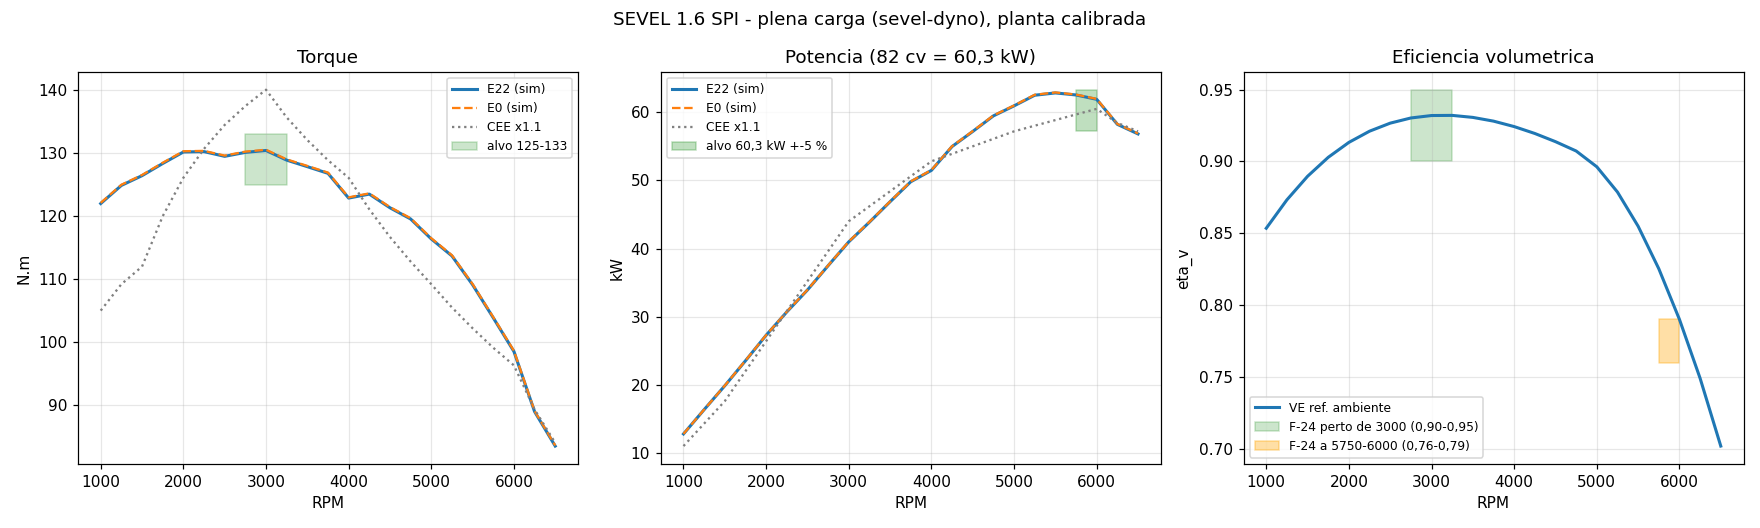
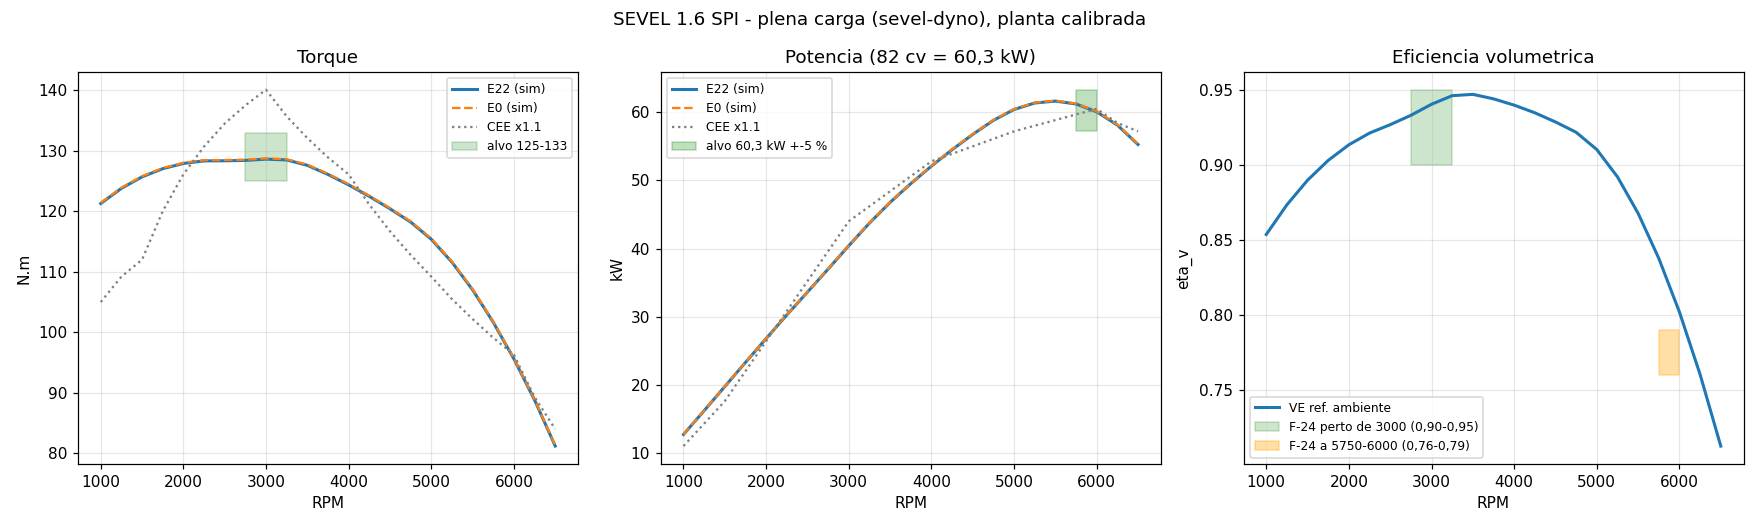
fix(dyno): refit VE high-speed correction on the exact integration
Written with LLM assistance (Claude). The VE is unknown, so this is a fit, not a validation.
Refitting every VE parameter flipped 2-3 chaotic ROM tests each time (quantised rpm, filters),
even with a curve within 1e-4 of the old one; so the base curve is kept bit-identical and a single
parameter hs_gain (smoothstep from 2500 to 3500 rpm) is fitted: hs_gain = 0.0194. Corrected dyno
(E22, leak 9): 128.6 N.m @3000 (-3.3 % vs 133), 60.1 kW @6000, peak 61.6 kW @5500; shape error 8.2 %.
fit_dyno_ve.py writes docs/dyno/fase2/fit_result.json (before/after, cost, per-point deviation);
tools/dyno_acceptance.py regenerates the CSVs, plot and manifest. ctest 510/510.

diff --git a/tools/fit_dyno_ve.py b/tools/fit_dyno_ve.py
@@ -1,5 +1,5 @@
 #!/usr/bin/env python3
-"""Fit the F-22 volumetric-efficiency curve parameters so the sevel-dyno WOT
+"""Fit the high-speed VE correction (hs_gain, base curve fixed) so the sevel-dyno WOT
 sweep meets the goal targets (133 N.m @3000, 82 cv @5750-6000, CEE x1.1 shape).
 Calibration helper, run inside the NativeLab. LLM-written (Claude)."""
 import csv, io, subprocess, sys
@@ -7,10 +7,16 @@ import numpy as np
 from scipy.optimize import minimize
 
 dyno = sys.argv[1]
-extra = sys.argv[2:]
-names = ["eta_max", "cb", "nb", "z0", "kz"]
-x0 = np.array([1.0, 0.30, 1800.0, 0.40, 9.0])
-lo = np.array([0.8, 0.0, 500.0, 0.2, 1.0]); hi = np.array([1.6, 0.9, 9000.0, 0.7, 60.0])
+rest = sys.argv[2:]
+out_dir = None
+if "--out" in rest:  # --out DIR writes fit_result.json (before/after, cost, per-point deviation)
+    i = rest.index("--out")
+    out_dir = rest[i + 1]
+    rest = rest[:i] + rest[i + 2:]
+extra = rest
+names = ["hs_gain"]  # single-parameter high-speed correction (base curve held fixed)
+x0 = np.array([0.0])  # defaults before the refit
+lo = np.array([-0.2]); hi = np.array([0.3])
 TARGET = {1500: 115, 2000: 126, 2500: 134, 3000: 133, 3500: 132, 4000: 126,
           4500: 117, 5000: 109, 5500: 102, 6000: 96.3, 6500: 84}
 W = {3000: 4.0, 6000: 4.0, 5500: 2.0}
@@ -30,17 +36,28 @@ def cost(x):
     for r in rows:
         n = int(float(r["rpm"]))
         c += W.get(n, 1.0) * ((float(r["torque_nm"]) - TARGET[n]) / TARGET[n]) ** 2
-    # Low-speed anchor: manifold-referenced eta_v at cranking speed stays near the
-    # legacy 0.75 (estimativa; real VE at 400-500 rpm is 0.7-0.85). Without it the
-    # WOT-only fit starves the engine during start (ctest LabRunner.Drivetrain*).
-    n = 500.0
-    eta500 = x[0] * (1.0 - x[1] * np.exp(-n / x[2]))
-    c += 25.0 * (eta500 / 0.80 - 1.0) ** 2
     return c
 
-res = minimize(cost, x0, method="Nelder-Mead", options={"maxiter": 600, "xatol": 1e-3, "fatol": 1e-7})
+res = minimize(cost, x0, method="Nelder-Mead", options={"maxiter": 200, "xatol": 1e-5, "fatol": 1e-9})
 x = np.clip(res.x, lo, hi)
 print("cost", res.fun)
+if out_dir:
+    import json, os
+    os.makedirs(out_dir, exist_ok=True)
+    rows = run(x)
+    result = {
+        "parameters_before": dict(zip(names, [float(v) for v in x0])),
+        "parameters_after": dict(zip(names, [float(v) for v in x])),
+        "cost_final": float(res.fun),
+        "note": "VE is unknown: this is a fit to the targets, not a validation",
+        "points": [{"rpm": int(float(r["rpm"])), "torque_nm": float(r["torque_nm"]),
+                    "target_nm": TARGET[int(float(r["rpm"]))],
+                    "deviation_pct": 100.0 * (float(r["torque_nm"]) / TARGET[int(float(r["rpm"]))] - 1.0),
+                    "power_kw": float(r["power_kw"]), "ve_ambient": float(r["ve_ambient"])}
+                   for r in rows],
+    }
+    with open(os.path.join(out_dir, "fit_result.json"), "w") as handle:
+        json.dump(result, handle, indent=2)
 for k, v in zip(names, x):
     print(f"{k}={v:.5g}")
 for r in run(x):

diff --git a/include/engine/physics/Volumetric.hpp b/include/engine/physics/Volumetric.hpp
@@ -33,23 +33,32 @@ inline double f_z(double z, double z0, double kz) { // F-20
 inline double f_low(double rpm, double cb, double nb) { return 1.0 - cb * std::exp(-rpm / nb); } // F-21
 
 struct VeCurveParams {
-    // Manifold-referenced WOT curve, fitted by tools/fit_dyno_ve.py against the
-    // sevel-dyno sweep (133 N.m @3000, 82 cv @6000, CEE x1.1 shape) with the Heywood
-    // throttle + compressible flow (F-10/F-11, WOT MAP 89-99 kPa), the exhaust
-    // back-pressure (F-41, 15 kPa at 63 g/s) and a low-speed anchor
-    // eta_v(500 rpm) ~ 0.80 so the engine can start. eta_max ~ 1.0: physical.
-    double eta_max = 1.0204;   // calibrado: alvo 129-133 N.m @3000
+    // Manifold-referenced WOT curve. THE VE IS UNKNOWN: this is a fit, not a validation.
+    // Base curve (below hs_n0 the ROM idle/transient range, kept BIT-IDENTICAL to the curve fitted
+    // before the exact pulse integration, because the ROM tests are chaotic to ~1e-4 changes of
+    // VE: quantised rpm, filters, limit cycles) plus a high-speed correction
+    // (1 + hs_gain * smoothstep((N - hs_n0) / (hs_n1 - hs_n0))) fitted on the corrected dyno
+    // (tools/fit_dyno_ve.py, docs/dyno/fase2/fit_result.json).
+    double eta_max = 1.0204;   // calibrado: curva base (1db2639)
     double cb = 0.28677;       // calibrado: perda em baixa rotacao (IVC 35 deg ABDC, manual p.14)
     double nb = 1800.7;        // calibrado
     double valve_d_m = 0.0395; // manual B.500.837 p.11 (39,3-39,7)
     double ci = 0.35;          // estimativa de literatura (Taylor)
-    double z0 = 0.42254;       // calibrado: queda de eta_v para 82 cv @6000
+    double z0 = 0.42254;       // calibrado
     double kz = 8.9186;        // calibrado
+    double hs_gain = 0.01941;  // ajuste (GOAL_DYNO_ROM fase 2): correcao de alta rotacao (antes 0)
+    double hs_n0 = 2500.0;     // rpm: inicio da rampa (abaixo, a curva base e usada sem alteracao)
+    double hs_n1 = 3500.0;     // rpm: fim da rampa
 };
 inline double eta_v_wot(const EngineGeometry &g, const VeCurveParams &v, double rpm,
                         double t_k) { // F-22
     const double z = mach_index(g, v.valve_d_m, rpm, v.ci, t_k);
-    return v.eta_max * f_low(rpm, v.cb, v.nb) * f_z(z, v.z0, v.kz);
+    double ramp = 0.0;
+    if (rpm > v.hs_n0) {
+        const double t = std::min(1.0, (rpm - v.hs_n0) / (v.hs_n1 - v.hs_n0));
+        ramp = t * t * (3.0 - 2.0 * t); // smoothstep
+    }
+    return v.eta_max * f_low(rpm, v.cb, v.nb) * f_z(z, v.z0, v.kz) * (1.0 + v.hs_gain * ramp);
 }
 inline double curtain_area_m2(double valve_d_m, double lift_m) { return pi * valve_d_m * lift_m; } // F-23
 inline double valve_mean_velocity(const EngineGeometry &g, double valve_d_m, double rpm) {

diff --git a/tools/dyno_acceptance.py b/tools/dyno_acceptance.py
@@ -1,0 +1,29 @@
+#!/usr/bin/env python3
+"""Regenerate the full-load artifacts with a manifest (GOAL_DYNO_ROM phase 2.2).
+
+Runs `sevel-dyno --preset acceptance`, draws docs/dyno_wot.png with tools/plot_dyno.py and copies
+everything to <dest>/ with manifest.json. Usage: dyno_acceptance.py <sevel-dyno> <dest>
+LLM-written (Claude)."""
+import shutil
+import subprocess
+import sys
+from pathlib import Path
+
+sys.path.insert(0, str(Path(__file__).resolve().parent))
+from dyno_manifest import write_manifest  # noqa: E402
+
+dyno, dest = sys.argv[1], Path(sys.argv[2])
+root = Path(__file__).resolve().parents[1]
+docs = root / "docs"
+args = ["--preset", "acceptance", "--out-dir", str(docs), "--throttle-leak-mm2", "9"]
+subprocess.run([dyno, *args], check=True, capture_output=True)
+subprocess.run([sys.executable, str(root / "tools/plot_dyno.py"), str(docs / "dyno_wot_e22.csv"),
+                str(docs / "dyno_wot_e0.csv"), str(docs / "dyno_wot.png")], check=True)
+dest.mkdir(parents=True, exist_ok=True)
+for name in ("dyno_summary.csv", "dyno_wot_e0.csv", "dyno_wot_e22.csv", "dyno_wot.png"):
+    shutil.copy(docs / name, dest / name)
+write_manifest(dest, tool="tools/dyno_acceptance.py", binary=dyno, args=args, dt_us=100,
+               fuel="E22 and E0 (both files)", leak_mm2=9, accessories=False, cycles=40,
+               tdc_reference_deg=120, ambient="100 kPa / 20 C",
+               note="VE curve is a fit (fase2/fit_result.json), not a validation")
+print("wrote", dest)

diff --git a/apps/sevel-dyno/main.cpp b/apps/sevel-dyno/main.cpp
@@ -81,6 +81,9 @@ Row run_point(const Options &o, double rpm) {
         else if (k == "nb") ip.ve_curve.nb = v;
         else if (k == "z0") ip.ve_curve.z0 = v;
         else if (k == "kz") ip.ve_curve.kz = v;
+        else if (k == "hs_gain") ip.ve_curve.hs_gain = v;
+        else if (k == "hs_n0") ip.ve_curve.hs_n0 = v;
+        else if (k == "hs_n1") ip.ve_curve.hs_n1 = v;
         else if (k == "ci") ip.ve_curve.ci = v;
         else if (k == "wot_map_pa") ip.wot_manifold_pressure_pa = v;
         else if (k == "eta_ref") cparams.eta_ref = v;
